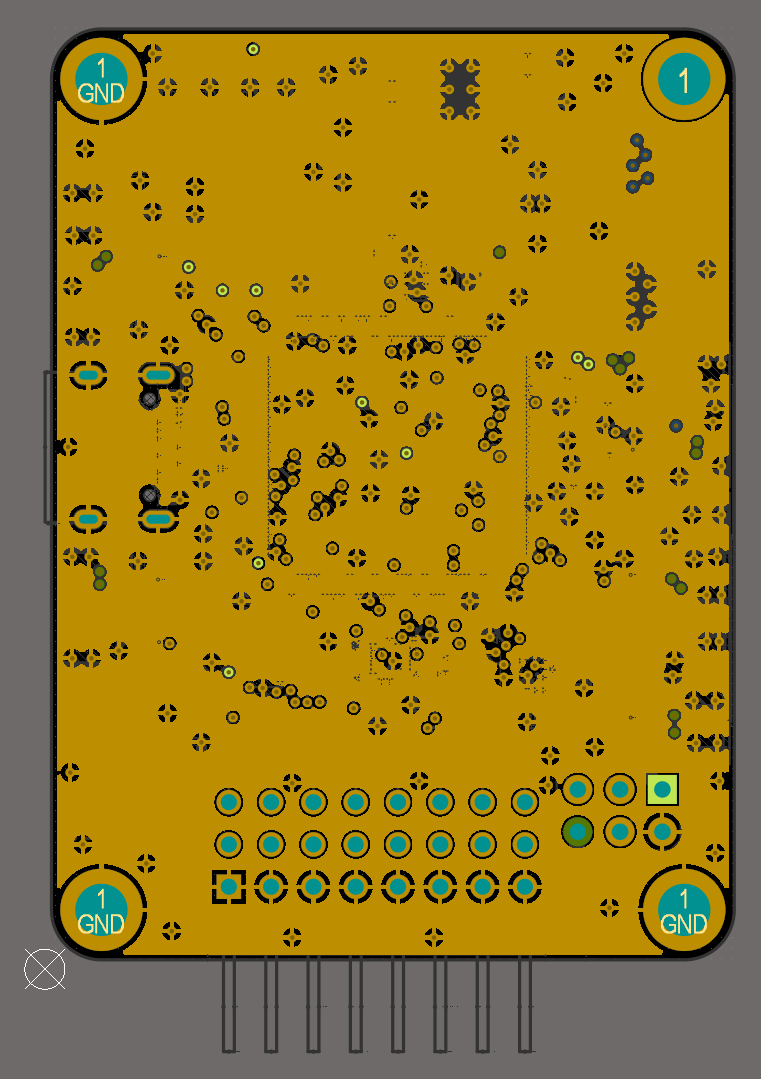
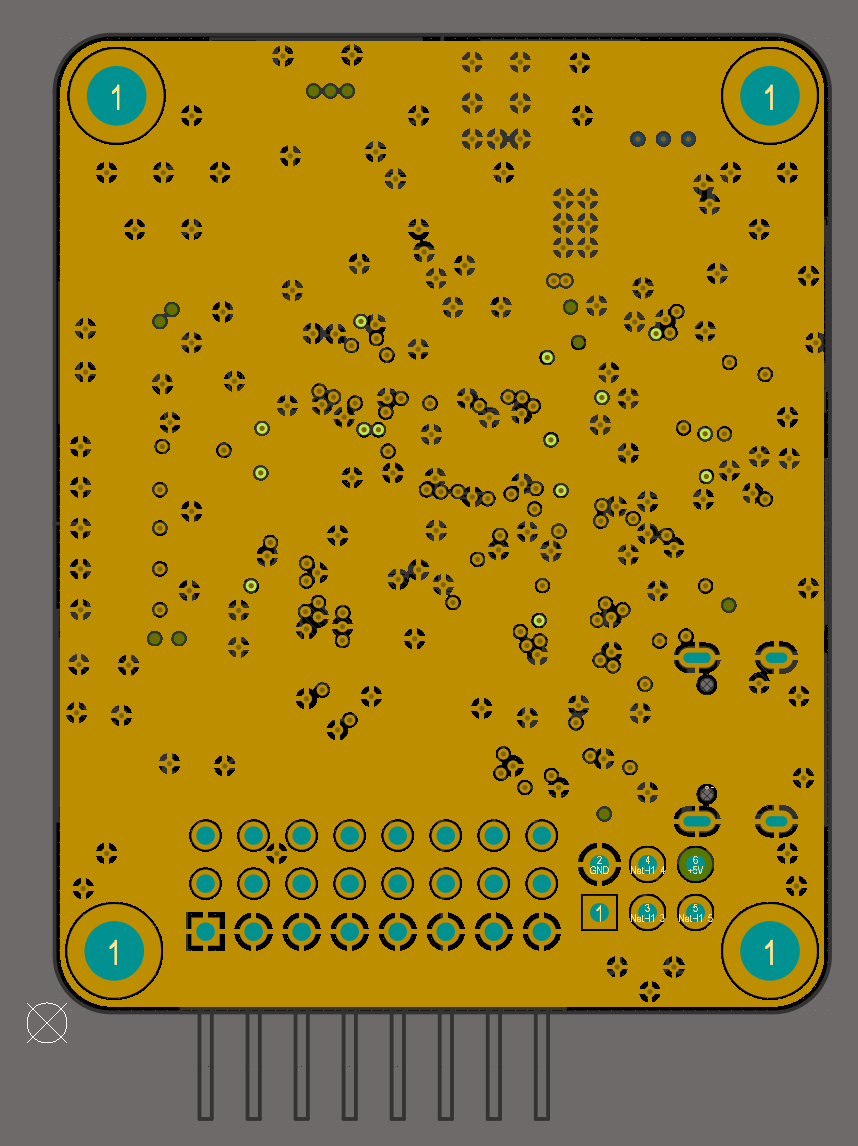
board stackup images

diff --git a/README.md b/README.md
@@ -1,4 +1,4 @@
-# Flight-Controller V1.1
+# Flight-Controller V1.2
 
 The purpose of this project was to gain experience working on a 4-layer PCB layout with Altium and working with the ARM STM32 family of microcontrollers.  
 Communication protocols such as SPI, UART, I2C, CAN, and USB were explored.  
@@ -12,14 +12,12 @@ This board is a part of my interest to building the entire hardware and software
 
 <img src="media/Board_front.png" width="49%" alt="CUBEMX"> <img src="media/Board_back.png" width="44.7%" alt="CUBEMX">
 
-## Improvements from V1.0
-1. Inductor with higher saturation and max current chosen for Buck Converter
-2. Swapped TPS7A2033PDBVR for the TPS74533PQWDRVRQ which has higher max current supply
-3. Buzzer moved from PE8 to PA4 (Pin with PWM timer)
-4. SD-Card correctly realigned
-5. Both 5.1k CC resistors for USB-C attached to ground
-6. Removed DFU LED
-
+## Improvements from V1.1
+1. Complete routing optimization to decrease trace lengths
+2. Reduction of parallel traces to reduce crosstalk
+3. Reduction of PCB footprint
+4. Modified silkscreen for LEDs
+5. Added directionality silkscreen indicator for accelerometer
 
 ## Features
 
@@ -92,7 +90,7 @@ Routing Priority: USB, SDMMC, SPI, DAC, CAN, UART, I2C, PWM, GPIO.
 Impedance matching was not done for SDMMC due to a lower speed requirement but length matching (>10mm) was taken into account. 
 
 ## Mechanical
-Dimensions 41 mm* 55.9 mm. 1.6mm Board thickness. Four M3 mounting holes on the corners of the board. 
+Dimensions 41 mm* 51.69 mm. 1.6mm FR4 Board thickness. Four M3 mounting holes on the corners of the board. 
 
 ## Ardupilot
 
@@ -108,11 +106,6 @@ cd ardupilot/
 ./waf configure --board MyCustomFC
 ./waf copter
 ```
-
-## Next Iteration
-
-- Less long-parallel wiring which could resulted in the coupling of signals
-  - Better initial planning of component layout
 
 ## License
 [Flight-Controller V1.0](https://github.com/jeffrey500/Flight-Controller) © 2026 by [Jeffrey Zhu](https://jzhu.ca) is licensed under a [Creative Commons Attribution-NonCommercial-ShareAlike 4.0 International License](https://creativecommons.org/licenses/by-nc-sa/4.0/).
